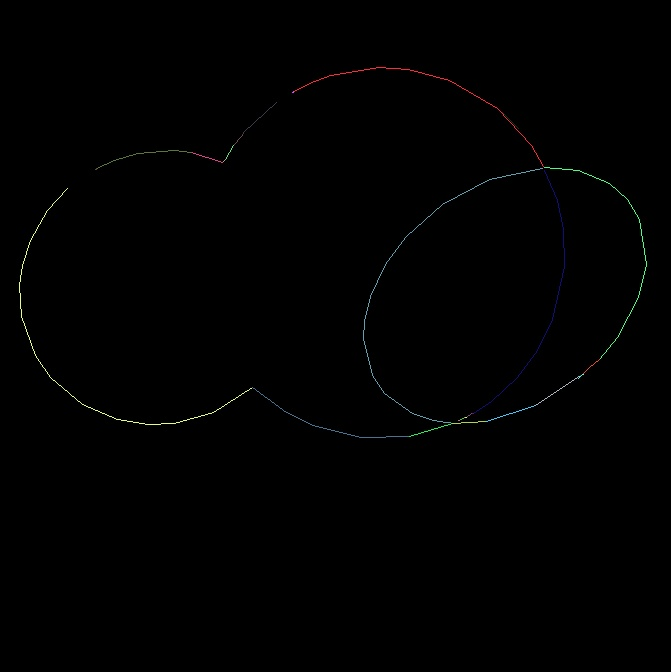
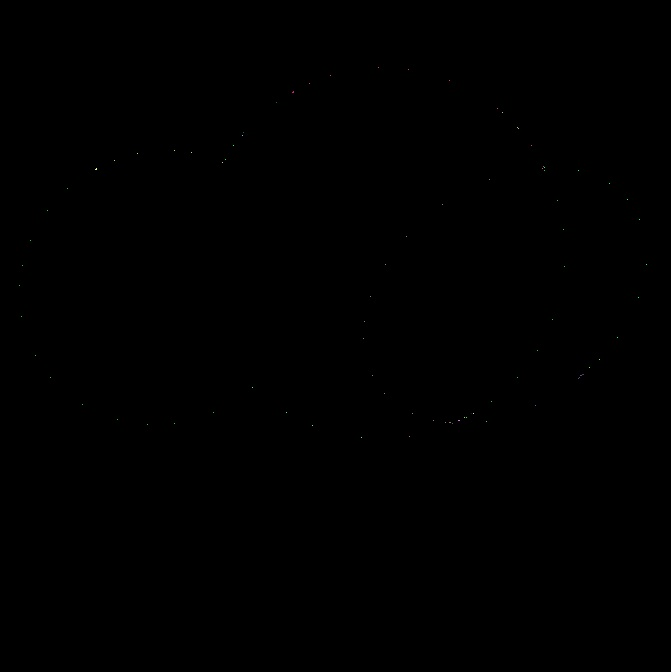
zuvor segmentierte Segmente können nicht mehr zusammengefasst werden! (EdgeLinking muss noch mal überarbeitet werden, da Fehler enstehen, wenn die Kanten nicht nur ein Pixel breit sind...!!!!)

diff --git a/Test/testMain.cpp b/Test/testMain.cpp
@@ -1,34 +1,101 @@
-//#include "Point.h"
-//#include "Defines.h"
-//#include "EdgeSegment.h"
-//#include "EllipticalArc.h"
-//#include <math.h>
-//#include <stdio.h>
-//#include <iostream>
-//#include "opencv2/highgui/highgui.hpp"
+////#include "Point.h"
+////#include "Defines.h"
+////#include "EdgeSegment.h"
+////#include "EllipticalArc.h"
+////#include <math.h>
+////#include <stdio.h>
+////#include <iostream>
+////#include "opencv2/highgui/highgui.hpp"
+////#include "opencv2/imgproc/imgproc.hpp"
+////
+////using namespace std;
+////int main(int argc, char** argv) {
+////	Point P(1,1);
+////	Point L2(74,430);
+////	Point L1(75,421);
+////	Point R1(75,416);
+////	Point R2(69,406);
+////
+////	Point r0 = (R1 - R2);
+////	Point r1 = (L2 - L1);
+////	double a1 = acos((r0 * r1) / (r0.norm()* r1.norm()))*(180 / PI);
+////	
+////	EdgeSegment e1;
+////	EdgeSegment e2;
+////	EdgeSegment e3;
+////
+////	EllipticalArc arc;
+////	arc.addSegment(&e2);
+////	arc.addSegment(&e1);
+////	bool b = arc.containsSegment(&e2);
+////	bool c = arc.containsSegment(&e3);
+////	getchar();
+////
+////}
 //#include "opencv2/imgproc/imgproc.hpp"
+//#include "opencv2/highgui/highgui.hpp"
+//#include <stdlib.h>
+//#include <stdio.h>
 //
-//using namespace std;
-//int main(int argc, char** argv) {
-//	Point P(1,1);
-//	Point L2(74,430);
-//	Point L1(75,421);
-//	Point R1(75,416);
-//	Point R2(69,406);
+//using namespace cv;
 //
-//	Point r0 = (R1 - R2);
-//	Point r1 = (L2 - L1);
-//	double a1 = acos((r0 * r1) / (r0.norm()* r1.norm()))*(180 / PI);
+///// Global variables
+//
+//Mat src, src_gray;
+//Mat dst, detected_edges;
+//
+//int edgeThresh = 1;
+//int lowThreshold;
+//int const max_lowThreshold = 100;
+//int ratio = 3;
+//int kernel_size = 3;
+//char* window_name = "Edge Map";
+//
+///**
+//* @function CannyThreshold
+//* @brief Trackbar callback - Canny thresholds input with a ratio 1:3
+//*/
+//void CannyThreshold(int, void*)
+//{
+//	/// Reduce noise with a kernel 3x3
+//	blur(src_gray, detected_edges, Size(3, 3));
+//
+//	/// Canny detector
+//	Canny(detected_edges, detected_edges, lowThreshold, lowThreshold*ratio, kernel_size);
+//
+//	/// Using Canny's output as a mask, we display our result
+//	dst = Scalar::all(0);
+//
+//	src.copyTo(dst, detected_edges);
+//	imshow(window_name, dst);
+//}
+//
+//
+///** @function main */
+//int main(int argc, char** argv)
+//{
+//	/// Load an image
+//	src_gray =  cv::imread("..\\Test.png", CV_LOAD_IMAGE_GRAYSCALE);
+//
 //	
-//	EdgeSegment e1;
-//	EdgeSegment e2;
-//	EdgeSegment e3;
 //
-//	EllipticalArc arc;
-//	arc.addSegment(&e2);
-//	arc.addSegment(&e1);
-//	bool b = arc.containsSegment(&e2);
-//	bool c = arc.containsSegment(&e3);
-//	getchar();
+//	/// Create a matrix of the same type and size as src (for dst)
+//	dst.create(src.size(), src.type());
 //
+//	/// Convert the image to grayscale
+//	//cvtColor(src, src_gray, CV_BGR2GRAY);
+//
+//	/// Create a window
+//	namedWindow(window_name, CV_WINDOW_AUTOSIZE);
+//
+//	/// Create a Trackbar for user to enter threshold
+//	createTrackbar("Min Threshold:", window_name, &lowThreshold, max_lowThreshold, CannyThreshold);
+//
+//	/// Show the image
+//	CannyThreshold(0, 0);
+//
+//	/// Wait until user exit program by pressing a key
+//	waitKey(0);
+//
+//	return 0;
 //}

diff --git a/Test/PreProcessing.cpp b/Test/PreProcessing.cpp
@@ -442,6 +442,9 @@ int curveGrouping(std::list<EdgeSegment*> *curveSegs, std::set<EllipticalArc*> *
 	//search for every m-th curve segment the n-th curve segment that has the min difference of tangents at their end points
 	for (std::list<EdgeSegment*>::iterator n = curveSegs->begin(); n != curveSegs->end(); n++) {
 		if (*n != NULL) {
+			EllipticalArc *tmp = new EllipticalArc;
+			tmp->addSegment((*n));
+			arcs->insert(tmp);
 			csf << "Seg " << (*n)->ID << std::endl;
 			nfirst = (*n)->getFirstPoint();
 			nend = (*n)->getLastPoint();
@@ -455,7 +458,7 @@ int curveGrouping(std::list<EdgeSegment*> *curveSegs, std::set<EllipticalArc*> *
 					mBnE = (*mfirst - *nend).norm()+.5;
 					mBnB = (*mfirst - *nfirst).norm()+.5;
 					d = std::min(std::min(mEnE, mEnB), std::min(mBnE, mBnB));
-					if (d < D0) {
+					if (d>0 && d < D0) {
 						if (d == mEnE) {
 							M1 = (*m)->getLastPoint();
 							N1 = (*n)->getLastPoint();
@@ -485,7 +488,7 @@ int curveGrouping(std::list<EdgeSegment*> *curveSegs, std::set<EllipticalArc*> *
 						r1 = &(*M1 - *M2);
 						r2 = &(*N2 - *N1);
 						a_tmp = acos((*r1 * *r2) / (r1->norm()* r2->norm()));
-						csf << "Winkel an Enden: M1(" << M1->getX() << "," << M1->getY() << ") M2(" << M2->getX() << "," << M2->getY() << ") und N1(" << N1->getX() << "," << N1->getY() << ") N2(" << N2->getX() << "," << N2->getY() <<") ::"<<a_tmp<<std::endl ;
+						csf << "Abstand: "<<d<<"  Winkel an Enden: M1(" << M1->getX() << "," << M1->getY() << ") M2(" << M2->getX() << "," << M2->getY() << ") und N1(" << N1->getX() << "," << N1->getY() << ") N2(" << N2->getX() << "," << N2->getY() <<") ::"<<a_tmp<<std::endl ;
 						if (a_tmp < a_min) {
 							//current angle between n and m is the smallest so far, so keep it in mind
 							a_min = a_tmp;

diff --git a/Test/EdgeSegment.cpp b/Test/EdgeSegment.cpp
@@ -167,6 +167,7 @@ int EdgeSegment::lineSegmentation(int d_tol) {
 	double x2mx1 = 0;
 	double C = 0;
 	int size = edgeList.size();
+	int help = ID;
 	list<Point*>::iterator last = edgeList.begin();
 	list<Point*>::iterator lastElem = edgeList.begin();
 	list<Point*>::iterator first = edgeList.begin();
@@ -214,13 +215,13 @@ void EdgeSegment::drawToImage(cv::Mat *image, cv::Vec3b color) {
 		}
 	}
 	else {
-		/*for (std::list<Point*>::iterator it = edgeList.begin(); it != edgeList.end(); it++)	{
+		for (std::list<Point*>::iterator it = edgeList.begin(); it != edgeList.end(); it++)	{
 			image->at<cv::Vec3b>((*it)->getY(), (*it)->getX())[0] = color.val[0];
 			image->at<cv::Vec3b>((*it)->getY(), (*it)->getX())[1] = color.val[1];
 			image->at<cv::Vec3b>((*it)->getY(), (*it)->getX())[2] = color.val[2];
-		}*/
+		}
 		//draw the lines between the end points
-		std::list<Point*>::iterator a, a_1;
+		/*std::list<Point*>::iterator a, a_1;
 		cv::Point p1;
 		cv::Point p2;
 		a = edgeList.begin();
@@ -230,7 +231,7 @@ void EdgeSegment::drawToImage(cv::Mat *image, cv::Vec3b color) {
 			p2 = cv::Point((*a_1)->getX(), (*a_1)->getY());
 			cv::line(*image, p1, p2, c, 1, 8);
 
-		}
+		}*/
 	}
 }
 

diff --git a/Test/main.cpp b/Test/main.cpp
@@ -83,10 +83,10 @@ int main(int argc, char** argv) {
 	//find ends
 	int nEnds  = findEnds(&endPoints, edgeImage2);
 
-	/*char* edge2_window = "Edges2";
+	char* edge2_window = "Edges2";
 	cv::namedWindow(edge2_window, CV_WINDOW_AUTOSIZE);
 	cv::imshow(edge2_window, edgeImage2);
-	cv::imwrite("..\\edgeImage_NachFindEnds.jpg", edgeImage2);*/
+	cv::imwrite("..\\edgeImage_NachFindEnds.jpg", edgeImage2);
 
 
 	//link edges
@@ -95,7 +95,7 @@ int main(int argc, char** argv) {
 	printf("Ends: %d\nSegments: %d\n", nEnds,nSegs);
 
 #ifdef DEBUG_SHOW_EDGESEGS
-	show segments
+	//show segments
 	char* segment_window = "Segments";
 	cv::namedWindow(segment_window, CV_WINDOW_AUTOSIZE);
 
@@ -103,6 +103,9 @@ int main(int argc, char** argv) {
 		cv::Vec3b color(rng.uniform(0, 255), rng.uniform(0, 255), rng.uniform(0, 255));
 		if ((*it)->getLength() > MIN_LENGTH) {
 			(*it)->drawToImage(&segImage, color);
+			/*cv::imshow(segment_window, segImage);
+			cout << "ID: " << (*it)->ID<<endl;
+			cv::waitKey();*/
 		}
 	}
 	cv::imshow(segment_window, segImage);

diff --git a/Test/Defines.h b/Test/Defines.h
@@ -15,7 +15,7 @@
 #define ENDPOINT 200
 //#define DEBUG_MAXLINEDEV
 #define DEBUG_SHOW_LINESEGMENTEDEDGES
-//#define DEBUG_SHOW_EDGESEGS
+#define DEBUG_SHOW_EDGESEGS
 
 /*Line segmentation*/
 #define MIN_LENGTH 10
